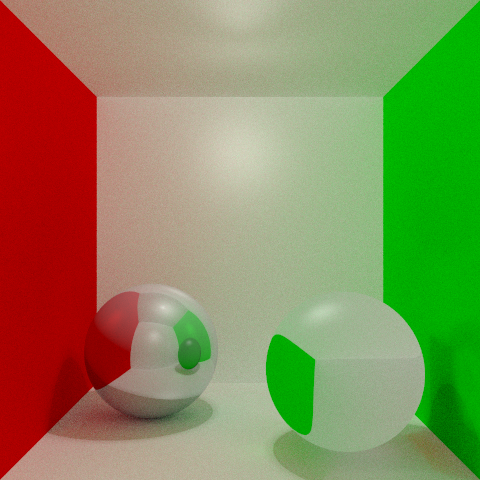
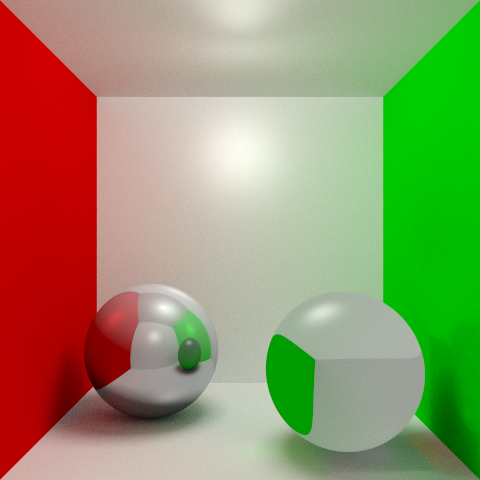
add refrsh rng scene button and optimised shadow computation

diff --git a/src/Scene.h b/src/Scene.h
@@ -17,7 +17,7 @@
 
 #include "Functions.h"
 
-#define MAXBOUNCES 6
+#define MAXBOUNCES 5
 
 enum LightType {
     LightType_Spherical,
@@ -102,32 +102,45 @@ public:
         result.t = tmax;
         for (int i = 0; i < spheres.size(); i++) {
             RaySphereIntersection intersection = spheres[i].intersect(ray);
-            if (intersection.intersectionExists) {
-                if (intersection.t < result.t && intersection.t >= EPSILON) {
-                    setResult(result, 1, i, intersection.t);
-                    result.raySphereIntersection = intersection;
-                }
+            if (intersection.intersectionExists && intersection.t < result.t && intersection.t >= EPSILON) {
+                setResult(result, 1, i, intersection.t);
+                result.raySphereIntersection = intersection;
             } 
         }
         for (int i = 0; i < squares.size(); i++) {
             RaySquareIntersection intersection = squares[i].intersect(ray);
-            if (intersection.intersectionExists) {
-                if (intersection.t < result.t && intersection.t >= EPSILON) {
-                    setResult(result, 2, i, intersection.t);
-                    result.raySquareIntersection = intersection;
-                }
+            if (intersection.intersectionExists && intersection.t < result.t && intersection.t >= EPSILON) {
+                setResult(result, 2, i, intersection.t);
+                result.raySquareIntersection = intersection;
             } 
         }
         for (int i = 0; i < meshes.size(); i++) {
             RayTriangleIntersection intersection = meshes[i].intersect(ray);
-            if (intersection.intersectionExists) {
-                if (intersection.t < result.t && intersection.t >= EPSILON) {
-                    setResult(result, 3, i, intersection.t);
-                    result.rayMeshIntersection = intersection;
-                }
+            if (intersection.intersectionExists && intersection.t < result.t && intersection.t >= EPSILON) {
+                setResult(result, 3, i, intersection.t);
+                result.rayMeshIntersection = intersection;  
             } 
         }
         return result;
+    }
+
+    /**
+     * Retourne vrai si une intersection est trouvée avec un objet de la scène avant t
+     */
+    bool computeShadow(Ray const & ray, float t = FLT_MAX) {
+        for (int i = 0; i < spheres.size(); i++) {
+            RaySphereIntersection intersection = spheres[i].intersect(ray);
+            if (intersection.intersectionExists && intersection.t < t && intersection.t >= EPSILON) return true;
+        }
+        for (int i = 0; i < squares.size(); i++) {
+            RaySquareIntersection intersection = squares[i].intersect(ray);
+            if (intersection.intersectionExists && intersection.t < t && intersection.t >= EPSILON) return true;
+        }
+        for (int i = 0; i < meshes.size(); i++) {
+            RayTriangleIntersection intersection = meshes[i].intersect(ray);
+            if (intersection.intersectionExists && intersection.t < t && intersection.t >= EPSILON) return true;
+        }
+        return false;
     }
 
     
@@ -168,46 +181,39 @@ public:
             L = lights[i].pos - intersection;
             L.normalize();
             float dotLN = Vec3::dot(L, normal);
-            float tLight = (lights[i].pos - intersection).length() / L.length();
-            RaySceneIntersection shadowIntersection = computeIntersection(Ray(intersection, L), tLight);
-            if (!shadowIntersection.intersectionExists) { // Si pas d'intersection vers la lumière ou (il y a une intersection et elle est après la lumière)
-                // Diffuse
-                color += material.diffuse_material * max(0.0, dotLN) * (1. - material.transparency);
+            // Diffuse
+            color += Vec3::compProduct(lights[0].material, material.diffuse_material) * max(0.0, dotLN) * (1. - material.transparency);
 
-                // Specular
-                R = 2.*(dotLN)*normal-L;
-                R.normalize();
-                V = ray.origin() - intersection;
-                V.normalize();
-                color += material.specular_material * pow(max(0.0, Vec3::dot(R, V)),material.shininess);
-           
-                // Ombres douces
-                Light random_light;
-                int blocked = 0;
-                int nb_ech = 5;
-                float delta = 0.4;
-                for (int j = 0; j < nb_ech; j++) {
-                    float x = random_float(-delta, delta);
-                    float y = random_float(-delta, delta);
-                    float z = random_float(-delta, delta);
-                    random_light.pos = lights[i].pos + Vec3(x, y, z);
-                    L = random_light.pos - intersection;
-                    L.normalize();
-                    float tLight = (random_light.pos - intersection).length() / L.length();
-                    RaySceneIntersection shadowIntersection = computeIntersection(Ray(intersection, L), tLight);
-                    if (shadowIntersection.intersectionExists) {
-                        blocked++;
-                    }
-                }
-                float shadow = 1. - (float)blocked / (float)nb_ech;
-                color *= shadow;
+            // Specular
+            R = 2.*(dotLN)*normal-L;
+            R.normalize();
+            V = ray.origin() - intersection;
+            V.normalize();
+            color += Vec3::compProduct(lights[0].material, material.specular_material)  * pow(max(0.0, Vec3::dot(R, V)),material.shininess);
+        
+            // Ombres douces
+            Light random_light;
+            int blocked = 0;
+            int nb_ech = 10;
+            float delta = lights[i].radius/2.;
+            for (int j = 0; j < nb_ech; j++) {
+                float x = random_float(-delta, delta);
+                float y = 0.0;
+                float z = random_float(-delta, delta);
+                random_light.pos = lights[i].pos + Vec3(x, y, z);
+                L = random_light.pos - intersection;
+                L.normalize();
+                float tLight = (random_light.pos - intersection).length();
+                if (computeShadow(Ray(intersection + L * EPSILON, L), tLight)) blocked++;
             }
+            float shadow = 1. - float(blocked) / float(nb_ech);
+            color *= shadow;
         }
         Vec3 newColor;
         Ray newRay;
         material.scatter(ray, normal, intersection, newRay);
         newColor = rayTraceRecursive(newRay, NRemainingBounces-1);
-        for (int i = 0; i < 3; i++) newColor[i]*=material.diffuse_material[i];
+        newColor = Vec3::compProduct(newColor, material.diffuse_material);
         return color + newColor;
     }
 
@@ -421,7 +427,7 @@ public:
             s.m_center = Vec3(-1.0, -1.25, -0.5);
             s.m_radius = 0.75f;
             s.build_arrays();
-            s.material.type = Material_Mirror;
+            s.material.type = Material_Mirror; 
             s.material.diffuse_material = Vec3( 0.8 );
             s.material.specular_material = Vec3(  1.,1.,1. );
             s.material.shininess = 16;
@@ -632,11 +638,15 @@ public:
     }
 
     void setup_random_spheres() {
-        int nSpheres = 50;
+        meshes.clear();
+        spheres.clear();
+        squares.clear();
+        lights.clear();
+        int nSpheres = 79;
         {
             lights.resize( lights.size() + 1 );
             Light & light = lights[lights.size() - 1];
-            light.pos = Vec3( 0.0, 6., 2.0 );
+            light.pos = Vec3( -1.0, 8., 2.0 );
             light.radius = 1.5f;
             light.powerCorrection = 2.f;
             light.type = LightType_Spherical;
@@ -694,15 +704,33 @@ public:
 
         for (int i = 0; i < nSpheres; i++) {
             float radius = random_float(0.25, 1.5);
-
+            int type = rand() % 3;
             spheres.resize( spheres.size() + 1 );
             Sphere & s = spheres[spheres.size() - 1];
             s.m_center = Vec3(random_float(-30., 30.), -4+radius, random_float(-50., -2.));
             s.m_radius = radius;
             s.build_arrays();
-            s.material.diffuse_material = Vec3( random_float(0., 1.), random_float(0., 1.), random_float(0., 1.));
-            s.material.specular_material = Vec3( random_float(0., 1.), random_float(0., 1.), random_float(0., 1.));
-            s.material.shininess = random_float(0., 100.);
+            switch (type) {
+                case 0:
+                    s.material.type = Material_Mirror;
+                    s.material.diffuse_material = Vec3( random_float(0., 1.), random_float(0., 1.), random_float(0., 1.));
+                    s.material.specular_material = Vec3( random_float(0., 1.), random_float(0., 1.), random_float(0., 1.));
+                    s.material.shininess = random_float(32., 100.);
+                    break;
+                case 1:
+                    s.material.type = Material_Glass;
+                    s.material.diffuse_material = Vec3( random_float(0.7, 1.));
+                    s.material.specular_material = Vec3( random_float(0.7, 1.));
+                    s.material.shininess = random_float(32., 70.);
+                    s.material.transparency = random_float(0.7, 1.);
+                    s.material.index_medium = random_float(1., 2.);
+                    break;
+                default:
+                    s.material.diffuse_material = Vec3( random_float(0., 1.), random_float(0., 1.), random_float(0., 1.));
+                    s.material.specular_material = Vec3( random_float(0., 1.), random_float(0., 1.), random_float(0., 1.));
+                    s.material.shininess = random_float(0., 30.);
+                    break;
+            }
         }
     }
 };

diff --git a/main.cpp b/main.cpp
@@ -70,9 +70,10 @@ void printUsage () {
          << "------------------" << endl
          << " ?: Print help" << endl
          << " w: Toggle Wireframe Mode" << endl
-         << " g: Toggle Gouraud Shading Mode" << endl
+         << " r: Ray trace the scene" << endl
+         << " u: Recompute the random scenes" << endl
          << " f: Toggle full screen mode" << endl
-         << " +: Change scene" << endl
+         << " +/-: Change scene" << endl
          << " <drag>+<left button>: rotate model" << endl
          << " <drag>+<right button>: move model" << endl
          << " <drag>+<middle button>: zoom" << endl
@@ -178,7 +179,7 @@ void ray_trace_from_camera() {
     camera.apply();
     Vec3 pos , dir;
     //    unsigned int nsamples = 250;
-    unsigned int nsamples = 20;
+    unsigned int nsamples = 10;
     std::vector< Vec3 > image( w*h , Vec3(0,0,0) );
     for (int y=0; y<h; y++){
         for (int x=0; x<w; x++) {
@@ -252,6 +253,9 @@ void key (unsigned char keyPressed, int x, int y) {
         rays.clear();
         ray_trace_from_camera();
         
+        break;
+    case 'u':
+        scenes[selected_scene].setup_random_spheres();
         break;
     case '-':
         selected_scene = (selected_scene - 1) % scenes.size();

diff --git a/src/Functions.cpp b/src/Functions.cpp
@@ -2,7 +2,7 @@
 
 float random_float() {
     static std::uniform_real_distribution<float> distribution(0.0, 1.0);
-    static std::mt19937 generator;
+    static std::mt19937 generator(static_cast<unsigned int>(time(nullptr)));
     return distribution(generator);
 }
 
